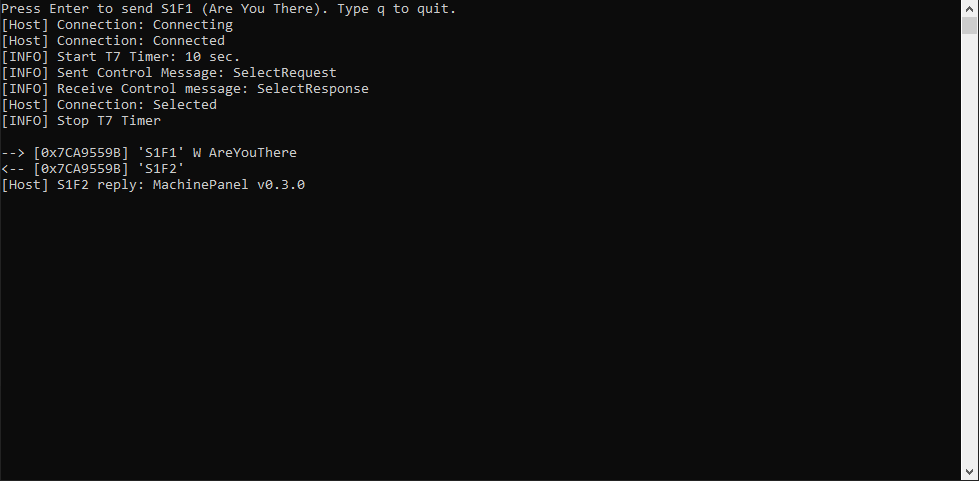
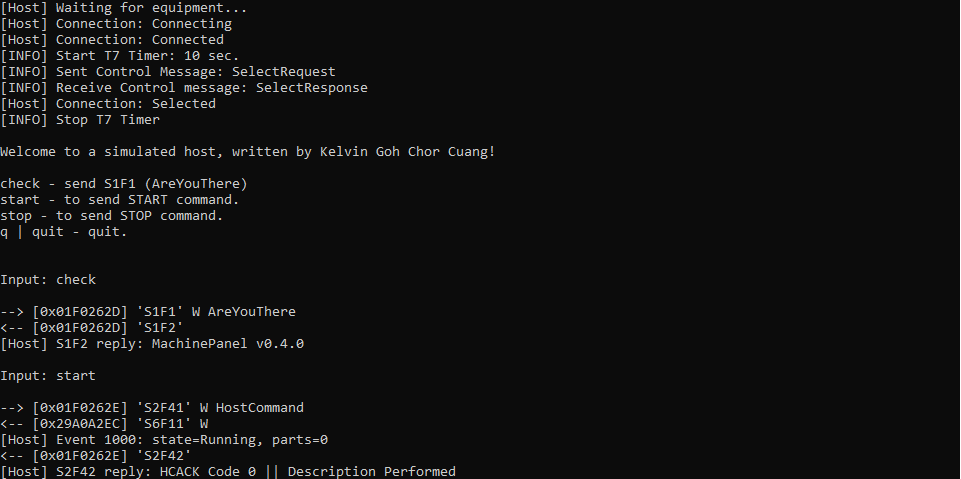
feat: shut down SECS service cleanly on close chore: updated readme.md and screenshots updated to version 0.4.0

diff --git a/MachinePanel/MainWindow.xaml.cs b/MachinePanel/MainWindow.xaml.cs
@@ -1,4 +1,5 @@
-using System.Text;
+using System.ComponentModel;
+using System.Text;
 using System.Windows;
 using System.Windows.Controls;
 using System.Windows.Data;
@@ -16,10 +17,30 @@ namespace MachinePanel
     /// </summary>
     public partial class MainWindow : Window
     {
+        private readonly MainViewModel _viewModel;
+        private bool _isShuttingDown;
+        private bool _canClose;
+
         public MainWindow()
         {
             InitializeComponent();
-            DataContext = new MainViewModel();
+            _viewModel = new MainViewModel();
+
+            DataContext = _viewModel;
+            Closing += OnWindowClosing;
+        }
+
+        private async void OnWindowClosing(object? sender, CancelEventArgs e)
+        {
+            if (_canClose) return;
+
+            e.Cancel = true;
+            if (_isShuttingDown) return;
+
+            _isShuttingDown = true;
+            await _viewModel.DisposeAsync();
+            _canClose = true;
+            Close();
         }
     }
 }

diff --git a/MachinePanel/MainViewModel.cs b/MachinePanel/MainViewModel.cs
@@ -7,7 +7,7 @@ using System.IO;
 
 namespace MachinePanel;
 
-public partial class MainViewModel : ObservableObject
+public partial class MainViewModel : ObservableObject, IAsyncDisposable
 {
     private readonly Machine _machine = new();
     private readonly DispatcherTimer _timer;
@@ -178,5 +178,12 @@ public partial class MainViewModel : ObservableObject
                 if (_machine.State == MachineState.Stopped) return RemoteCommandResult.AlreadyInState;
                 else return RemoteCommandResult.CannotPerformNow;
         }
+    }
+
+    public async ValueTask DisposeAsync()
+    {
+        _timer.Stop();
+        _timer.Tick -= OnTimerTick;
+        await _secsEquipmentService.DisposeAsync();
     }
 }

diff --git a/FakeHost/Program.cs b/FakeHost/Program.cs
@@ -44,6 +44,8 @@ while (true)
 
     string? input = await Task.Run(() => Console.ReadLine());
 
+    Console.Write("\n");
+
     if (input is null) break;
 
     string cleanedInput = input.Trim().ToUpperInvariant();
@@ -57,9 +59,6 @@ while (true)
         case "STOP": await SendStopCommand(secsGem); break;
         default: Console.WriteLine("[Host] Unknown input"); break;
     }
-
-
-    
 }
 
 cts.Cancel();
@@ -213,6 +212,7 @@ static void PrintAlarmReport(SecsMessage s5f1)
 
     Console.WriteLine($"[Host] Alarm {(isSet ? "SET" : "CLEARED")}: ALID={alarmId} \"{alarmText}\" (category {category})");
 }
+
 static string DescribeHcack(byte hcack) => hcack switch
 {
     0 => "Performed",

diff --git a/README.md b/README.md
@@ -3,6 +3,7 @@
 A WPF desktop app that simulates a semiconductor-style equipment control panel: start/stop control, a state machine with alarms, a live event log, and fault history stored in a SQL database.
 
 ![MachinePanel screenshot](docs/screenshot.png)
+![FakeHost screenshot](docs/screenshot02.png)
 
 > The machine is simulated in software. No real hardware is required.
 
@@ -94,9 +95,28 @@ Cycles are stored in the `ProductionCycles` table:
 | `PartNumber` | At what part number after reset |
 | `CycleTimeMs` | Time it took for the cycle to complete (`milliseconds`) |
 
+## SECS/GEM Interface
+
+MachinePanel acts as SECS/GEM **equipment** (HSMS passive, `127.0.0.1:5000`) using [secs4net](https://github.com/mkjeff/secs4net).
+
+| Message | Direction | Purpose |
+|---|---|---|
+| S1F1 / S1F2 | Host → Equipment | Are You There → model name + software revision |
+| S6F11 / S6F12 | Equipment → Host | State change event (CEID 1000) with state + part count |
+| S5F1 / S5F2 | Equipment → Host | Alarm set / cleared, with alarm ID (ALID) and text |
+| S2F41 / S2F42 | Host → Equipment | Remote START / STOP, answered with HCACK |
+
+**FakeHost** is a console host simulator included in the solution for testing.
+Run both projects (Multiple startup projects), wait for `Selected`, then type:
+`Enter` = S1F1, `start` / `stop` = S2F41, `q` = quit.
+
+Message and ID reference: [docs/secs-gem-cheatsheet.md](docs/secs-gem-cheatsheet.md)
+
 ## Roadmap
 
-- [ ] SECS/GEM communication with a simulated host
+- [x] SECS/GEM communication with a simulated host
+- [ ] Unit tests for the machine logic
+- [ ] IP/port configuration via appsettings.json
 - [ ] PLC connectivity
 
 ## Author
